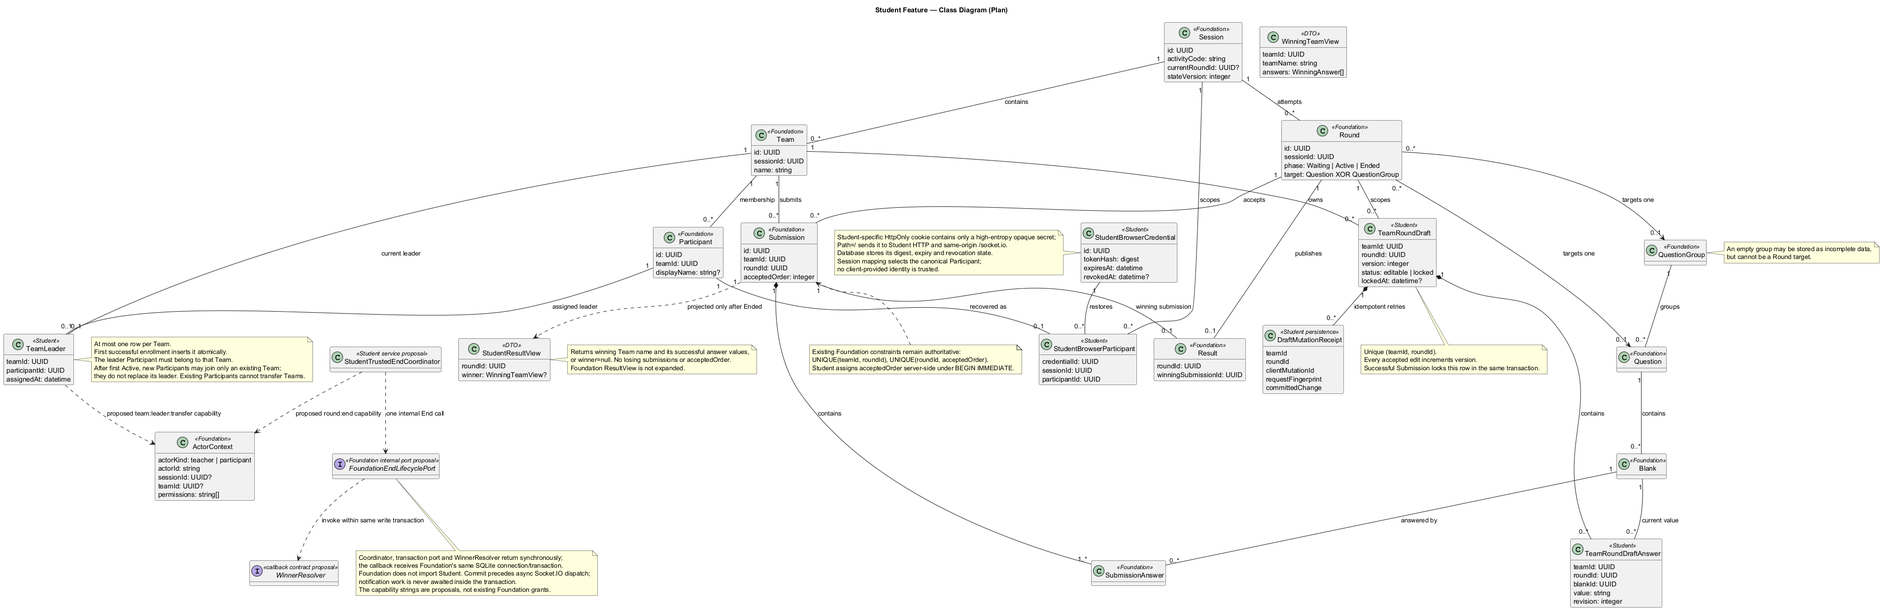
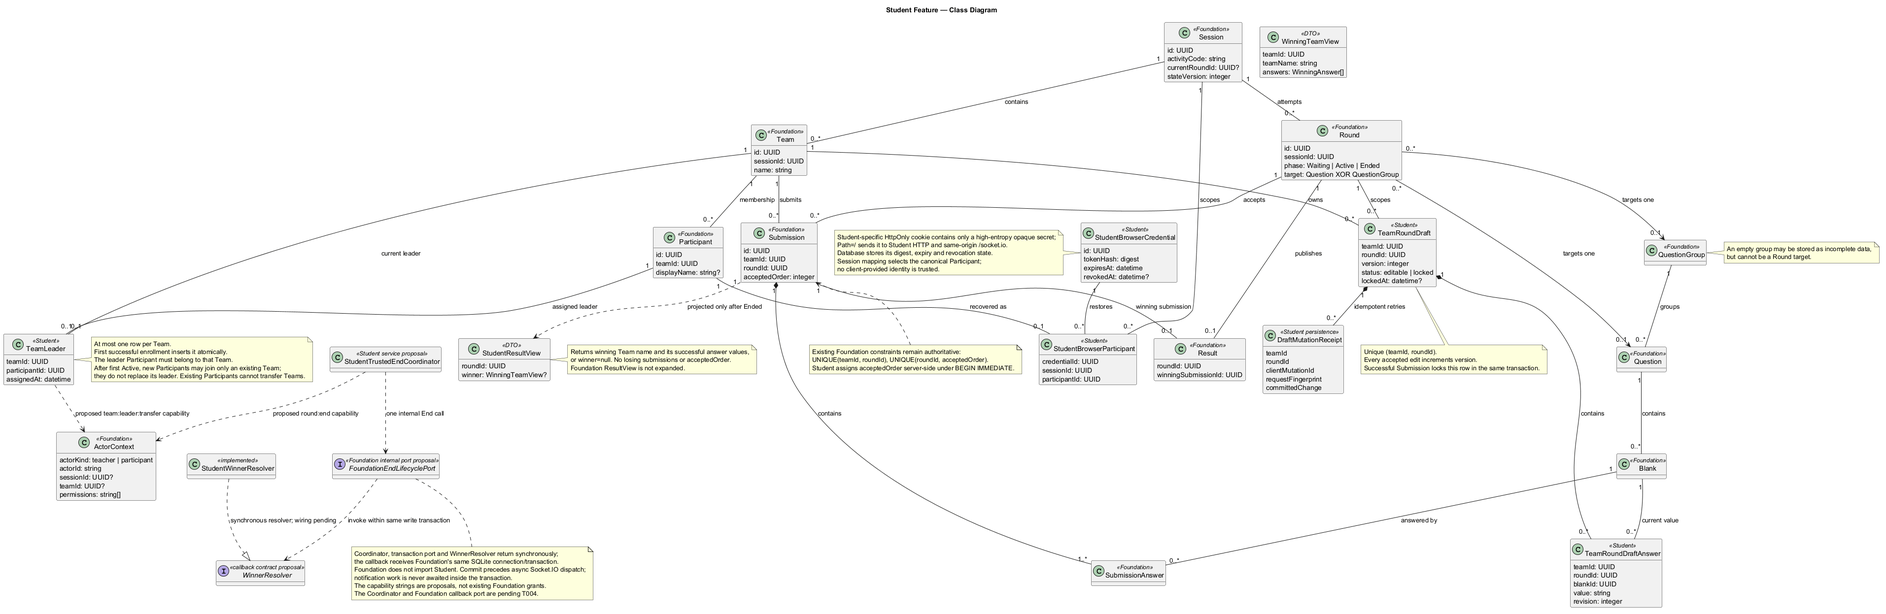
docs(student): add validation guide and requirement traceability

diff --git a/specs/002-student-feature/quickstart.md b/specs/002-student-feature/quickstart.md
@@ -1,88 +1,59 @@
-# Student Feature Quickstart and Validation Guide
+# Student Feature Quickstart
 
-This is the planned validation guide for Student Feature after implementation. It does not claim that Student join, cookie authentication, draft editing, submission, Teacher integration or result UI already exist. No test-only public API or production authentication bypass is part of this design.
-
-## Prerequisites
-
-- Windows 10/11 with PowerShell or the VS Code integrated terminal.
-- Node.js 22.12+ and npm from the installed Node.js distribution.
-- Git checkout on `feature/student` containing the Shared Foundation work.
-- The Teacher/Student internal service review for leader transfer and End/winner transaction completed before cross-module integration tests.
-
-## Install, check and start
-
-From the repository root:
+在 Windows PowerShell 或 VS Code 終端機從 Repository 根目錄執行。使用 Node.js 22.12+ 和隨附的 npm。
 
 ```powershell
 npm.cmd ci
 npm.cmd run check
-npm.cmd run dev
 ```
 
-Open `http://127.0.0.1:5173/student/join`. Vite proxies `/api` and `/socket.io` to the existing Express server at `http://127.0.0.1:3000`; keep the app same-origin in local development so the Student-specific HttpOnly cookie with `Path=/` reaches both Student HTTP and Socket.IO without credentialed cross-origin CORS.
+## 啟動隔離的瀏覽器 Demo
 
-Expected at completion: one Vite app, one Express/Socket.IO process and the existing SQLite file with Foundation plus additive Student migrations. The Student cookie is never available to frontend JavaScript and is not stored in localStorage.
-
-## Join and identity recovery
-
-1. Use a seeded test Session with at least two Teams and a valid Activity Code. Seed data must be created by an isolated Vitest fixture or an authorized Teacher workflow; no public seed endpoint is planned.
-2. Open `/student/join`, enter the Activity Code, and verify only activity summary and Team ID/name choices are shown before enrollment.
-3. Join a Team with a display name. In browser developer tools, confirm the response sets `student_session` with `Path=/`, HttpOnly, SameSite=Lax and no production HTTPS cookie downgrade; confirm the bearer value is absent from JSON and logs.
-4. Confirm the first successfully enrolled Participant in a Team is the only leader. Send parallel enrollment requests in the integration test and verify there is still exactly one leader.
-5. Advance the fixture Session through its first Active transition, then use a fresh browser credential to join a second existing Team. Verify first-time late enrollment succeeds, no new Team is created, and any existing Participant still cannot change Team.
-6. Briefly disconnect the browser/network, reconnect, and verify the same Participant remains leader and retains submission eligibility; refresh `/student/session/{sessionId}` and verify the same Participant and Team are restored from the server mapping.
-7. Expire/revoke the test credential in a test fixture; verify protected operations return 401 and UI offers recovery/rejoin without restoring by display name.
-8. Submit forged `participantId`, `teamId`, role, leader or `acceptedOrder` fields; verify they are rejected or ignored and never override the server ActorContext.
-9. Open an authorized Student Socket.IO connection from the same browser and verify DevTools shows the browser sent `student_session` to `/socket.io`; verify the server derives Participant/Team from that cookie and the requested Session scope. Repeat with a missing/expired cookie and a disallowed Origin; the handshake/watch must be rejected and no Team/Round room joined.
-
-## SC-001 Join Timing
-
-On the Windows browser with the local app running and a fresh browser context, start a stopwatch when submitting a valid Activity Code. Stop it when the enrolled Student Session page has rendered the selected Team and membership. Repeat for three fresh join runs using the same documented fixture and record each duration, browser, and environment in `tests/manual/student-feature.md`. The SC-001 threshold is 120 seconds per run. This procedure is an acceptance check only; do not mark it passed until the durations have actually been measured.
-
-## Draft, submission and realtime
-
-1. Use a Foundation/Teacher-created Active Round with a Question containing multiple Blanks and a separate QuestionGroup fixture with multiple Questions.
-2. Join two browser clients as members of the same Team and Round. Edit different Blanks, then the same Blank from both clients; verify the last server-accepted edit is persisted and both clients converge to the same version/value.
-3. Refresh one client and disconnect/reconnect the other; each must recover the persisted snapshot. Verify another Team and another Session never receive the draft.
-4. Try blank/whitespace values and omit one target Blank; verify the server rejects submission and leaves the draft editable.
-5. Submit once as the server-verified leader. Verify canonical Submission/SubmissionAnswers and draft lock commit together, acceptedOrder is server-assigned, the UI becomes read-only, and subsequent edits/submits fail.
-6. Submit as a non-leader or with forged identity fields; verify 401/403 and no persisted Submission.
-7. Measure a persisted draft edit to second authorized client under normal local connection; expected display is within 2 seconds.
-
-## End, winner and result
-
-1. Submit from two Teams in one Round and verify the trusted server assigns distinct acceptedOrder values in commit order.
-2. Run Submit and Teacher End concurrently using the isolated two-connection integration harness. If Submit acquires the SQLite write lock first, End includes it in winner selection. If End commits first, the later Submit is rejected because the Round is Ended.
-3. Verify Ended, stateVersion and Result commit atomically and the existing Foundation `session:state:changed` event is emitted only after commit.
-4. Before Ended, call the Student result projection and verify no winner/answers are returned. After Ended, verify only the winning Team name and that Submission's answers are returned; losing Team values and acceptedOrder are absent.
-5. End a Round with no accepted Submission; verify `winner: null`, no synthetic Result, and no prior logical-target Result remains visible after reopen/no-winner completion.
-
-## Planned focused automated checks
-
-The following suites are to be created during Tasks; the paths are planned, not current test evidence:
+以下命令建立全新的暫存資料夾，讓每次從乾淨狀態開始。若要驗證重啟後的身分或草稿恢復，請在同一 PowerShell 保留 `SQLITE_PATH`、CSRF secret 與瀏覽器設定檔，直接再執行 `npm.cmd run dev`。
 
 ```powershell
-npm.cmd test -- --run tests/api/student-identity.test.ts tests/api/student-enrollment.test.ts
-npm.cmd test -- --run tests/integration/student-draft-submission.test.ts tests/integration/student-end-race.test.ts
-npm.cmd test -- --run tests/realtime/student-draft.test.ts
-npm.cmd run check
-```
+npm.cmd run build --workspace @quiz/contracts
+$studentDemoDirectory = Join-Path ([System.IO.Path]::GetTempPath()) ('quiz-student-' + [guid]::NewGuid().ToString('N'))
+New-Item -ItemType Directory -Path $studentDemoDirectory | Out-Null
+$env:STUDENT_UI_FIXTURE_PATH = Join-Path $studentDemoDirectory 'student-ui-demo.sqlite'
+$env:NODE_ENV = 'test'
+node --import tsx/esm tests/fixtures/student-ui-demo.ts
+if ($LASTEXITCODE -ne 0) { throw 'Student Demo fixture creation failed.' }
 
-The integration fixtures use a dedicated temporary SQLite database and close/clean it after each suite. They must not mutate the normal development database. Manual acceptance must additionally be performed in a browser with at least two student clients and an authenticated Teacher workflow; passing Vitest alone is not manual acceptance.
-
-## Known limits before implementation
-
-- Foundation has no formal Teacher login/command UI; Teacher integration tests must use a test-only trusted ActorContext fixture and the actual internal service, not a production bypass endpoint.
-- Late first-time enrollment into an existing Team is specified; no Teacher-managed admission-stop setting or Student Team creation is included.
-- Cross-module internal service names, proposed Teacher capabilities and the Foundation transaction callback require Teacher/Foundation owner review. Until agreed, the concurrency test remains a required integration gate.
-# Enrollment infrastructure (T017–T024)
-
-Before running Student enrollment locally, configure the server CSRF signing secret in the same PowerShell terminal. Keep the value stable while testing recovery across tabs/restarts; changing it invalidates existing CSRF tokens, but does not replace the browser identity cookie.
-
-```powershell
-$env:STUDENT_CSRF_SECRET = node -e "process.stdout.write(require('node:crypto').randomBytes(32).toString('hex'))"
+$env:NODE_ENV = 'development'
+$env:SQLITE_PATH = $env:STUDENT_UI_FIXTURE_PATH
 $env:STUDENT_ALLOWED_ORIGINS = 'http://127.0.0.1:5173,http://localhost:5173'
+$env:STUDENT_CSRF_SECRET = node -e "process.stdout.write(require('node:crypto').randomBytes(32).toString('hex'))"
 npm.cmd run dev
 ```
 
-The implemented backend flow is join-options → enrollment → me / csrf-token, with pre-start team-change protected by Origin, identity and CSRF. The existing Student pages remain placeholders until the UI tasks. No browser acceptance is claimed for this batch. Missing security configuration leaves protected enrollment routes unavailable; there is no generated signing-key fallback.
+開啟 `http://127.0.0.1:5173/student/join`。Vite 將 `/api` 和 `/socket.io` 轉送到 `127.0.0.1:3000` 的 Express／Socket.IO。Student Socket 透過 WebSocket 握手送出瀏覽器的 Origin 及 `student_session` Cookie。測試身分恢復時請使用同一主機名稱和瀏覽器設定檔。
+
+| 活動代號 | 初始資料 |
+| --- | --- |
+| `DEMO-WAIT` | Waiting，學生畫面不顯示題目。 |
+| `DEMO-ACTIVE` | Active，兩題、四個 Blank，可用不同學生身分測試同組草稿和提交。 |
+| `DEMO-ENDED` | Ended，含已持久化的勝出組別及四筆答案。 |
+
+每個代號各是一場活動。Fixture 只透過本機命令建立獨立 SQLite 檔，會拒絕覆寫既有檔案。Teacher 控制 Round、老師轉交組長及 Submit／End 競爭須另做整合驗收。操作步驟與已回報的瀏覽器觀察見 [Windows 人工驗收紀錄](../../tests/manual/student-feature.md)。
+
+## 指定自動化測試
+
+```powershell
+npm.cmd test -- tests/api/student-join-options.test.ts tests/api/student-csrf.test.ts tests/api/student-identity.test.ts tests/integration/student-enrollment.test.ts tests/integration/student-leader-reconnect.test.ts tests/integration/student-team-change.test.ts
+npm.cmd test -- tests/integration/student-vite-proxy.test.ts tests/realtime/student-socket-auth.test.ts tests/realtime/student-draft.test.ts tests/integration/student-draft-persistence.test.ts
+npm.cmd test -- tests/api/student-submission.test.ts tests/integration/student-submission-transaction.test.ts tests/api/student-result.test.ts tests/unit/student-winner-resolver.test.ts
+npm.cmd test -- tests/web/student-join-pages.test.tsx tests/web/student-activity-draft.test.tsx tests/web/student-result-state.test.tsx tests/web/student-session-state.test.ts
+```
+
+自動化套件透過隔離測試資料或資料庫驗證；需求對應見 [追蹤表](traceability.md)。
+
+## 本次自動化驗證紀錄
+
+| 檢查 | 實際結果 |
+| --- | --- |
+| `npm.cmd run check` | Exit 0。Contracts、Server、Web 與測試 TypeScript 檢查通過；三個工作區的 Build 通過，包含 Vite production build。 |
+| Vitest | 44 個測試檔、170 項全部通過。包含 Foundation API、SQLite／Migration、Session Watch／State 與原有路由，以及 Student 測試。 |
+| Demo 資料準備 | 已執行 Quickstart 的 fixture 命令，成功在暫存目錄建立三個 Demo Session 的 SQLite 檔。 |
+
+本次結果是目前分支的自動化回歸基準。Phase 8 的 T060 最終檢查依賴已審閱的 Teacher 整合，仍待完成。T061 的三次計時、組長重連與正式 Teacher／Student 瀏覽器驗收仍待記錄。單次 Vite WebSocket Proxy `ECONNABORTED` 發生時學生功能正常，列為待觀察。

diff --git a/specs/002-student-feature/traceability.md b/specs/002-student-feature/traceability.md
@@ -1,0 +1,48 @@
+# Student Feature 需求追蹤
+
+對照 [Spec](spec.md)、[Tasks](tasks.md) 與 [Windows 人工驗收紀錄](../../tests/manual/student-feature.md)。下表以檔名標示實作及自動化證據；Server 檔案位於 `apps/server/src/`，Web 檔案位於 `apps/web/src/`，測試位於 `tests/`。本次測試結果見 [Quickstart](quickstart.md)。
+
+## Functional Requirements
+
+| 需求 | Tasks | 實作 | 自動化證據／待驗 |
+| --- | --- | --- | --- |
+| FR-001 共用路由 | T047、T049–T050、T054 | `router.tsx`、`StudentJoinPlaceholder.tsx`、`StudentSessionPlaceholder.tsx` | `student-join-pages.test.tsx`、`student-result-state.test.tsx` |
+| FR-002 匿名限流查詢 | T017、T021、T050 | `student-identity-client.ts`、`join-options-service.ts`、`session-query-service.ts` | `student-join-options.test.ts`、`foundation-api.test.ts` |
+| FR-003 既有組別／晚到加入 | T018、T021–T023、T047、T050 | `join-options-service.ts`、`enrollment-service.ts`、`StudentJoinPlaceholder.tsx` | `student-enrollment.test.ts`、`student-join-pages.test.tsx`；晚到瀏覽器操作待驗 |
+| FR-004 原子指派及保留組長 | T005–T007、T018–T020、T022、T024–T026 | `002-student-feature.sql`、`team-leader-repository.ts`、`enrollment-service.ts`、`team-change-service.ts` | `student-enrollment.test.ts`、`student-leader-reconnect.test.ts`、`student-team-change.test.ts`；短暫離線瀏覽器驗收及教師轉交待驗，教師轉交受 T004 限制 |
+| FR-005 Cookie 與轉組時限 | T019–T020、T023–T024、T051 | `student-identity-service.ts`、`enrollment-controller.ts`、`team-change-service.ts` | `student-identity.test.ts`（API）、`student-team-change.test.ts` |
+| FR-006 無效代號及錯誤隱私 | T017、T021、T047、T050 | `join-options-controller.ts`、`StudentJoinPlaceholder.tsx` | `student-join-options.test.ts`、`student-join-pages.test.tsx` |
+| FR-007 Waiting 不揭露題目 | T029、T039、T042、T049、T054 | `session-controller.ts`、`draft-service.ts`、`StudentSessionPlaceholder.tsx` | `foundation-api.test.ts`、`student-draft.test.ts`（API）、`student-result-state.test.tsx` |
+| FR-008 Active 與成員授權 | T011–T012、T029、T039、T052、T054 | `student-identity.ts`、`session-controller.ts`、`StudentTargetEditor.tsx` | `student-identity-middleware.test.ts`、`student-vite-proxy.test.ts`、`student-activity-draft.test.tsx` |
+| FR-009 動態逐格填答 | T027、T029、T048、T052 | `draft-service.ts`、`StudentTargetEditor.tsx` | `student-draft.test.ts`（API）、`student-activity-draft.test.tsx`、`student-vite-proxy.test.ts` |
+| FR-010 題組共同提交 | T033、T035–T037、T048、T052–T053 | `submission-validation.ts`、`submission-service.ts`、`StudentTargetEditor.tsx` | `student-submission.test.ts`、`student-activity-draft.test.tsx` |
+| FR-011 無 Blank 禁止提交 | T033、T035、T048、T052–T053 | `submission-validation.ts`、`StudentSubmissionControls.tsx` | `student-submission.test.ts`、`student-activity-draft.test.tsx` |
+| FR-012 持久化共同草稿 | T008、T027–T032、T048、T053 | `draft-repository.ts`、`draft-service.ts`、`student-draft-socket.ts`、`draft-client.ts` | `student-draft-persistence.test.ts`、`student-draft.test.ts`（Realtime）、`student-draft-client.test.ts`；雙瀏覽器及隔離待驗 |
+| FR-013 後端確認組長提交 | T011–T014、T033、T035–T037、T048、T053 | `student-identity.ts`、`submission-service.ts`、`StudentSubmissionControls.tsx` | `student-csrf.test.ts`、`student-submission.test.ts`、`student-activity-draft.test.tsx` |
+| FR-014 非空白及目標驗證 | T033、T035–T037、T048 | `submission-validation.ts`、`submission-service.ts` | `student-submission.test.ts`、`student-activity-draft.test.tsx` |
+| FR-015 同組同輪唯一及鎖定 | T033–T038、T048、T053 | `submission-service.ts`、`draft-repository.ts`、`student-draft-socket.ts`、`StudentDraftPanel.tsx` | `student-submission-transaction.test.ts`、`student-draft.test.ts`（Realtime）、`student-activity-draft.test.tsx`；雙瀏覽器鎖定待驗 |
+| FR-016 後端接受順位 | T033–T037 | `submission-service.ts`、Foundation `submission-repository.ts` | `student-submission.test.ts`、`student-submission-transaction.test.ts` |
+| FR-017 勝者及 End 交易 | T040–T041、T043–T046、T059、T061 | `winner-resolver.ts`、`student-result-service.ts`；Foundation End callback 與 Student Coordinator 待實作 | `student-winner-resolver.test.ts`、`student-result.test.ts` 已驗；Submit／End 競爭、同交易 Result、失敗回滾及 Commit 後廣播仍受 T004 限制 |
+| FR-018 重用 Foundation 資料 | T001–T003、T005–T008、T012、T029、T036、T043、T046 | `app.ts`、Foundation repositories、增量 Student migration | `student-migration.test.ts`、`student-repositories.test.ts`、`student-submission-transaction.test.ts` |
+| FR-019 權威快照及重連 | T039、T042、T049、T054 | `student-session-state.ts`、`session-state-client.ts`、`student-socket.ts` | `student-session-state.test.ts`、`student-vite-proxy.test.ts`；瀏覽器重連待驗 |
+| FR-020 兩秒內同步與資料隔離 | T027、T039–T040、T042、T046、T054、T061 | `student-session-state.ts`、`session-state-client.ts`、`student-result-service.ts` | `student-session-state.test.ts`、`student-result.test.ts`、`session-state.test.ts`；正式 Teacher 觸發的瀏覽器計時待驗 |
+| FR-021 Ended 前禁止讀結果 | T040、T046、T049、T054 | `student-result-service.ts`、`StudentSessionPlaceholder.tsx` | `student-result.test.ts`、`student-result-state.test.tsx` |
+| FR-022 勝出組及答案投影 | T040、T046、T049、T054 | `student-result-service.ts`、`result-controller.ts`、`StudentSessionPlaceholder.tsx` | `student-result.test.ts`、`student-result-state.test.tsx`；Demo 結果頁待驗 |
+| FR-023 新 Round 與結果覆蓋 | T039–T042、T044、T049、T054、T061 | `student-session-state.ts`、`StudentSessionPlaceholder.tsx`、Foundation `foundation-transactions.ts` | `student-session-state.test.ts`、`student-result.test.ts`、`submission-result.test.ts`；Teacher 驅動的換輪／重新開題及 End 整合仍待驗 |
+| FR-024 安全且可理解的錯誤 | T009、T013–T015、T017、T027、T033、T047–T054 | `student-router.ts`、`student-identity-client.ts`、`StudentJoinPlaceholder.tsx`、`StudentSessionPlaceholder.tsx`、`StudentSubmissionControls.tsx` | `student-join-options.test.ts`、`student-csrf.test.ts`、`student-submission.test.ts`、三組 Student 頁面測試；手機／桌面操作待驗 |
+| FR-025 無帳密及身分恢復 | T007、T011–T012、T019、T022–T023、T047、T051 | `identity-repository.ts`、`student-identity-service.ts`、`student-identity-client.ts` | `student-identity.test.ts`（API）、`student-leader-reconnect.test.ts`、`student-join-pages.test.tsx`；瀏覽器更新／重連待驗 |
+
+## Success Criteria
+
+| 準則 | Tasks | 實作 | 自動化證據及人工驗收 |
+| --- | --- | --- | --- |
+| SC-001 加入 ≤120 秒／無效代號不加入 | T017–T018、T021–T023、T047、T050–T051、T055、T061 | `StudentJoinPlaceholder.tsx`、`join-options-service.ts`、`enrollment-service.ts` | `student-join-options.test.ts`、`student-join-pages.test.tsx`；已有一次加入觀察，三次全新瀏覽器計時仍待測 |
+| SC-002 自稱權限無效 | T011–T016、T027、T033、T037 | `student-identity.ts`、`student-draft-socket.ts`、`submission-controller.ts` | `student-identity-middleware.test.ts`、`student-socket-auth.test.ts`、`student-submission.test.ts`；瀏覽器 Cookie／CSRF 檢查待驗 |
+| SC-003 N 個 Blank 與零 Blank | T033、T035、T048、T052–T053 | `StudentTargetEditor.tsx`、`StudentSubmissionControls.tsx`、`submission-validation.ts` | `student-activity-draft.test.tsx`、`student-submission.test.ts`；瀏覽器題組顯示待驗 |
+| SC-004 每輪一筆及可信順位 | T033–T038 | `submission-service.ts`、Foundation `submission-repository.ts` | `student-submission.test.ts`、`student-submission-transaction.test.ts` |
+| SC-005 兩秒內更新、重連一致 | T039、T042、T054、T055、T061 | `student-session-state.ts`、`session-state-client.ts` | `student-session-state.test.ts`、`session-state.test.ts`、`student-vite-proxy.test.ts`；正式 Teacher 流程的兩個瀏覽器計時與重連待測 |
+| SC-006 結果時機及隱私 | T040、T046、T049、T054、T061 | `student-result-service.ts`、`StudentSessionPlaceholder.tsx` | `student-result.test.ts`、`student-result-state.test.tsx`；正式 Teacher End 後結果驗收待測 |
+| SC-007 題目及填空數可變 | T027、T048、T052 | `StudentTargetEditor.tsx`、`student-identity-client.ts` | `student-draft.test.ts`（API）、`student-activity-draft.test.tsx`、`student-vite-proxy.test.ts` |
+| SC-008 完整答案與鎖定 | T033–T038、T048、T053、T055、T061 | `submission-validation.ts`、`submission-service.ts`、`StudentDraftPanel.tsx` | `student-submission.test.ts`、`student-submission-transaction.test.ts`、`student-activity-draft.test.tsx`；雙瀏覽器鎖定待驗 |
+
+T004 審閱與 T025、T026、T041、T044、T045、T059 的依賴以 [跨模組 Gate 紀錄](../../docs/integration/student-feature-review-gate.md) 和 [Tasks](tasks.md) 為準。T060 最終回歸與 T061 正式驗收仍依賴已審閱的整合。兩分鐘加入門檻、同一組長身分的瀏覽器重連、正式 Teacher 操作、瀏覽器版面與連線觀察都須記錄實測結果。

diff --git a/tests/manual/student-feature.md b/tests/manual/student-feature.md
@@ -1,0 +1,35 @@
+# Student Feature Windows 人工驗收
+
+從 Repository 根目錄依 [Quickstart](../../specs/002-student-feature/quickstart.md) 啟動隔離的 Demo SQLite、Vite 和 Express。全程使用 `http://127.0.0.1:5173`。用不同瀏覽器設定檔建立獨立學生身分，同設定檔的多個分頁會共用 Cookie。建議 A、B 加入同組，C 加入另一組，D 加入另一場活動。
+
+## 已有的人工紀錄
+
+| 項目 | 實際觀察 |
+| --- | --- |
+| Windows Chrome，`DEMO-ACTIVE` 加入 | 已觀察到加入成功，頁面取得 Session ID、學生 AAA、Team 與成員資格。 |
+| 初次 Socket.IO 連線 | 當次畫面停留於等待狀態，Chrome Polling 回覆 `UNAUTHORIZED_STUDENT_ORIGIN`。後續修正已由 Vite Proxy 整合測試驗證，修正後完整瀏覽器流程仍待逐項重驗。 |
+| Vite WebSocket Proxy | 曾出現一次 `ECONNABORTED`，當時學生功能正常。列為待觀察。若再發生，記錄時間、是否剛關閉分頁或中斷網路、WS 重連與操作是否受影響。 |
+
+以下各項以實際操作結果填寫。記錄日期、Windows／瀏覽器版本、活動代號、組別、預期與實際結果；Cookie、CSRF Token 和其他憑證值須遮蔽。
+
+## 可用隔離 Demo 驗證的流程
+
+| 驗收項目 | 操作與預期 | 人工狀態 |
+| --- | --- | --- |
+| 查詢及加入 | 在 `/student/join` 先查不存在或格式錯誤的代號，確認顯示錯誤且未取得活動身分。改查 `DEMO-ACTIVE`，應只列兩個既有組別。用 A 輸入名稱加入，確認跳至 `/student/session/:sessionId` 並顯示正確 Team 和角色。乾淨資料中該組第一個成功加入者為組長。 | 有首次成功加入紀錄；錯誤與新資料組長資格待驗 |
+| SC-001 計時 | 使用三個全新瀏覽器身分。從送出有效活動代號開始計時，到活動頁顯示 Team 及成員資格停止，逐次填入秒數。每次須 ≤120 秒。 | 第 1 次 __ 秒；第 2 次 __ 秒；第 3 次 __ 秒，均待測 |
+| Cookie／CSRF | 在 Network／Application 檢查 `student_session` 的 `Path=/`、`HttpOnly`、`SameSite=Lax`。本機 HTTP Demo 的 Cookie 無 `Secure`，正式 HTTPS 的 `Secure` 由自動化驗證。確認首次加入請求有允許的 Origin，可無 CSRF；加入後的草稿寫入／提交帶 `X-CSRF-Token`。缺失或無效 Origin、缺失／錯誤 CSRF、已綁定重複加入等拒絕案例可對照自動化套件。 | 待驗 |
+| Waiting 與 Active | 加入 `DEMO-WAIT`，確認只顯示等待、沒有題目欄位。另開 `DEMO-ACTIVE`，確認 WebSocket upgrade 後發出 `session:watch`、收到 `session:state`，而且 `current-target` 成功，畫面顯示兩題、四個 Blank。 | 修正後待重驗 |
+| 晚到與轉組 | B 在 `DEMO-ACTIVE` 首次加入 A 的既有 Team，應可加入且保留 A 的組長資格。查詢同活動應恢復既有身分；頁面無轉組入口，開始後的後端拒絕由 `student-team-change` 整合測試驗證。 | 待驗 |
+| 同組草稿、隔離 | A、B 在同一 Round 修改不同 Blank，再依序修改同一 Blank。兩頁應顯示最後一筆伺服器接受的值，其他格保留。C 在同 Session 不同 Team，D 在不同 Session，均不應收到 A／B 的草稿。 | 待驗 |
+| 重連與身分恢復 | A 保持原瀏覽器設定檔，記錄 `/me` 的 Participant ID 與組長資格；短暫離線後恢復，再重新整理。確認相同 Participant、Team 與提交資格，草稿回到最新已保存版本。 | 待驗 |
+| 提交與鎖定 | A 先留一格空白，再填完四格並等同步完成。未填齊不可提交，B 無組長提交操作。A 成功提交後，兩頁草稿都應唯讀；重新整理後仍鎖定。 | 待驗 |
+| 已公布結果 | 加入預先存入結果的 `DEMO-ENDED`，確認只顯示勝出組別與四個成功答案。無勝者投影以現有 API／UI 測試驗證。 | 有勝者瀏覽器案例待驗 |
+| 版面與錯誤 | 分別在手機與桌面寬度操作加入、填答及提交，確認欄位可辨識，錯誤及斷線訊息可讀。 | 待驗 |
+
+## T004 通過後的整合驗收
+
+1. 以正式授權的 Teacher 後端與介面建立測試活動並控制同一 Session。讓至少兩個已加入的 Student 用戶端觀察 Waiting → Active → Ended、下一題和重新開題。正常連線下，記錄每個用戶端收到新 `stateVersion` 且畫面更新的時間，須在狀態變更後 2 秒內。確認新 Round 有不同 ID，舊草稿、提交與鎖定不沿用。
+2. 使用有權限的 Teacher 操作指定同一 Team 的新組長，驗證權限交接、原組長失去提交資格及新組長可提交。現有規格保留同一身分重連的組長資格，活動開始前由組長轉組須明確交接。跨 OpenSpec／Teacher 審閱待完成，無離線自動遞補行為。
+3. 在 T041／T044／T045 完成後，使用隔離的兩連線測試分別控制 Submission 和 End 先取得 SQLite 寫鎖。驗證 End 勝者取自同交易讀取、無勝者時無人工補造 Result、Result 於 Ended 廣播前已提交，並核對失敗回滾不廣播。瀏覽器另驗證 Ended 前讀不到勝出答案，以及有勝者／無勝者的顯示。
+4. T059 完成介面比對後，於 T061 記錄正式 Teacher 與 Student 的實際操作、三次加入時間與初始組長重連結果。Demo 的三個代號對應獨立 Session，僅供分階段畫面驗證。Teacher End、老師轉交組長及同活動切換下一輪仍待整合驗收。

diff --git a/specs/002-student-feature/tasks.md b/specs/002-student-feature/tasks.md
@@ -157,10 +157,10 @@ description: "Dependency-ordered implementation tasks for Student Feature"
 
 **Purpose**: Complete traceability and operational evidence without claiming manual tests that have not been run.
 
-- [ ] T055 [P] Update the Windows Student Feature validation steps and expected limitations in `tests/manual/student-feature.md`; include cookie/CSRF inspection, two-member shared draft, late join, leader transfer, submission, End race, reconnect, isolation, and authenticated Teacher workflow.
-- [ ] T056 [P] Update Student Feature install/check/run and focused test commands in `specs/002-student-feature/quickstart.md`; distinguish automated tests from browser/manual acceptance.
-- [ ] T057 [P] Create the FR/SC → task → implementation → test traceability matrix in `specs/002-student-feature/traceability.md`; include the cross-module gate and identify every manual-only acceptance.
-- [ ] T058 Compare the implementation with the three Student PlantUML diagrams; update `diagrams/002-student-feature-component.puml`, `diagrams/002-student-feature-class.puml`, and `diagrams/002-student-feature-sequence.puml` where needed, then regenerate and inspect the matching PNG files in `diagrams/` using the Constitution-required PlantUML CLI command.
+- [X] T055 [P] Update the Windows Student Feature validation steps and expected limitations in `tests/manual/student-feature.md`; include cookie/CSRF inspection, two-member shared draft, late join, leader transfer, submission, End race, reconnect, isolation, and authenticated Teacher workflow.
+- [X] T056 [P] Update Student Feature install/check/run and focused test commands in `specs/002-student-feature/quickstart.md`; distinguish automated tests from browser/manual acceptance.
+- [X] T057 [P] Create the FR/SC → task → implementation → test traceability matrix in `specs/002-student-feature/traceability.md`; include the cross-module gate and identify every manual-only acceptance.
+- [X] T058 Compare the implementation with the three Student PlantUML diagrams; update `diagrams/002-student-feature-component.puml`, `diagrams/002-student-feature-class.puml`, and `diagrams/002-student-feature-sequence.puml` where needed, then regenerate and inspect the matching PNG files in `diagrams/` using the Constitution-required PlantUML CLI command.
 - [ ] T059 After T004, T026, and T043–T045, review the implemented Teacher/Student internal interfaces and additive Student HTTP/Socket contracts against `docs/integration/student-teacher-decisions.md`, `docs/integration/teacher-foundation-integration-guide.md`, and `specs/002-student-feature/contracts/`; record actual review status and any contract differences without changing Foundation public contracts implicitly.
 - [ ] T060 Run `npm.cmd run check` from the repository root and record TypeScript, Build, Vitest, and any failures in `specs/002-student-feature/quickstart.md`; include Foundation regression results and do not mark manual acceptance complete from automated results.
 - [ ] T061 After T004, T026, T041, T043–T045, T050–T055, and T059, perform the Windows browser acceptance using the completed `tests/manual/student-feature.md` with at least two student clients and an authenticated Teacher workflow. Time three fresh join runs from submitting a valid Activity Code to the enrolled Session page rendering and record each elapsed duration; the SC-001 threshold is 120 seconds per run. Briefly disconnect/reconnect the initial leader and verify the same Participant retains submission eligibility. Record actual results, environment, and any unrun checks; do not claim the two-minute threshold passed without measured evidence.
